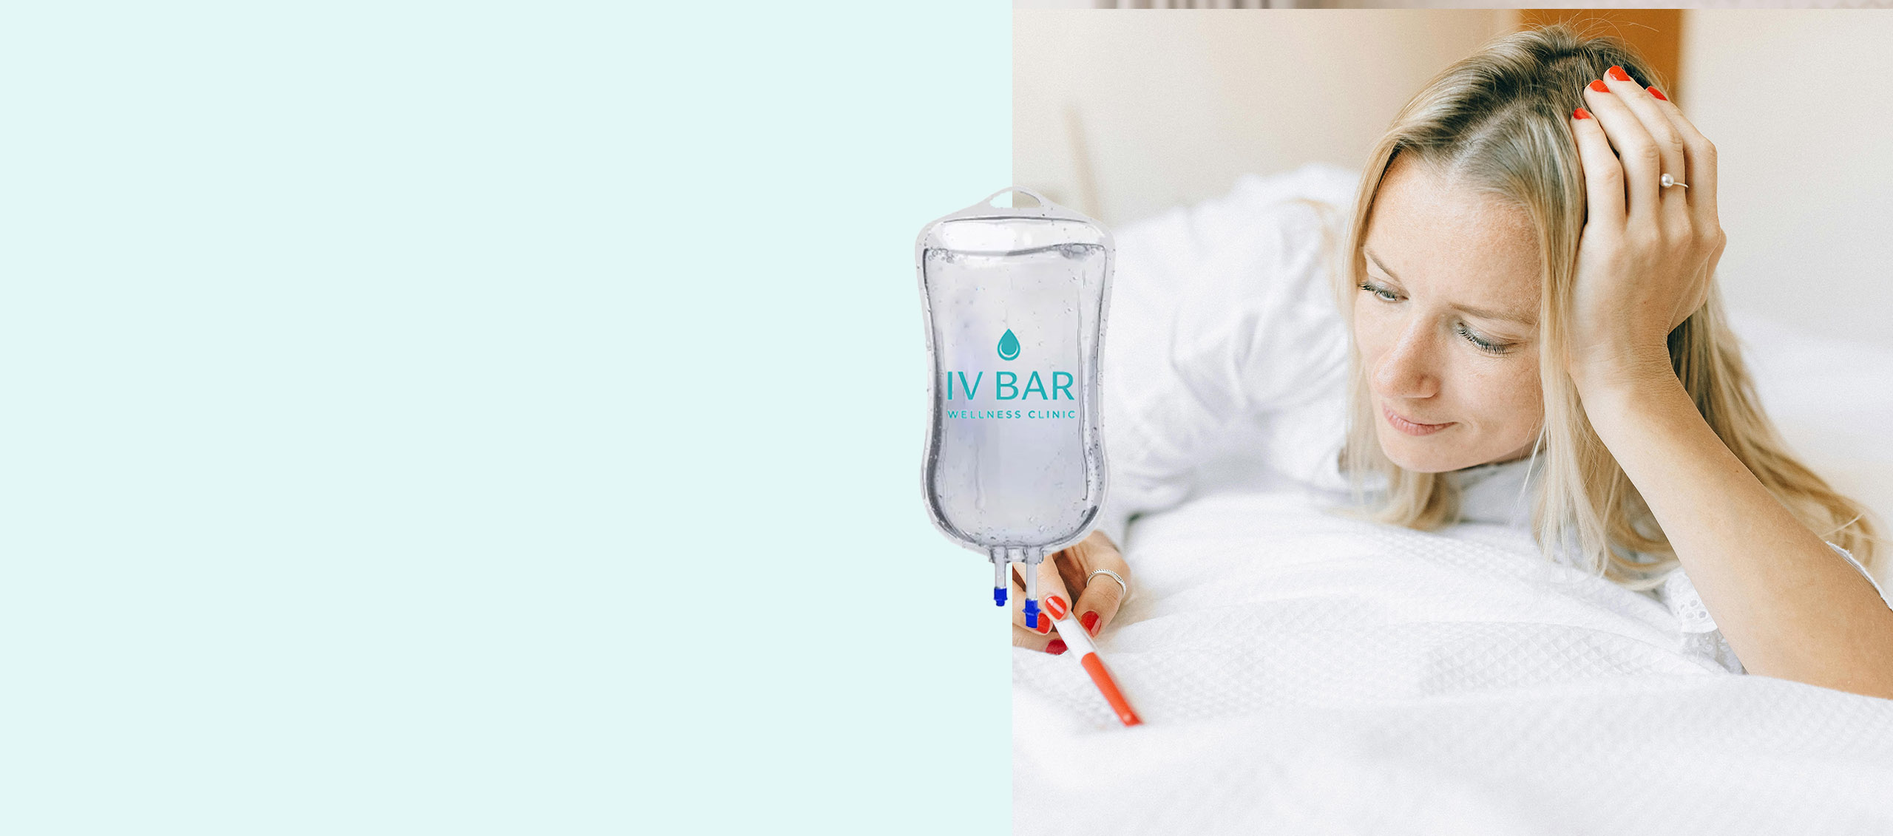
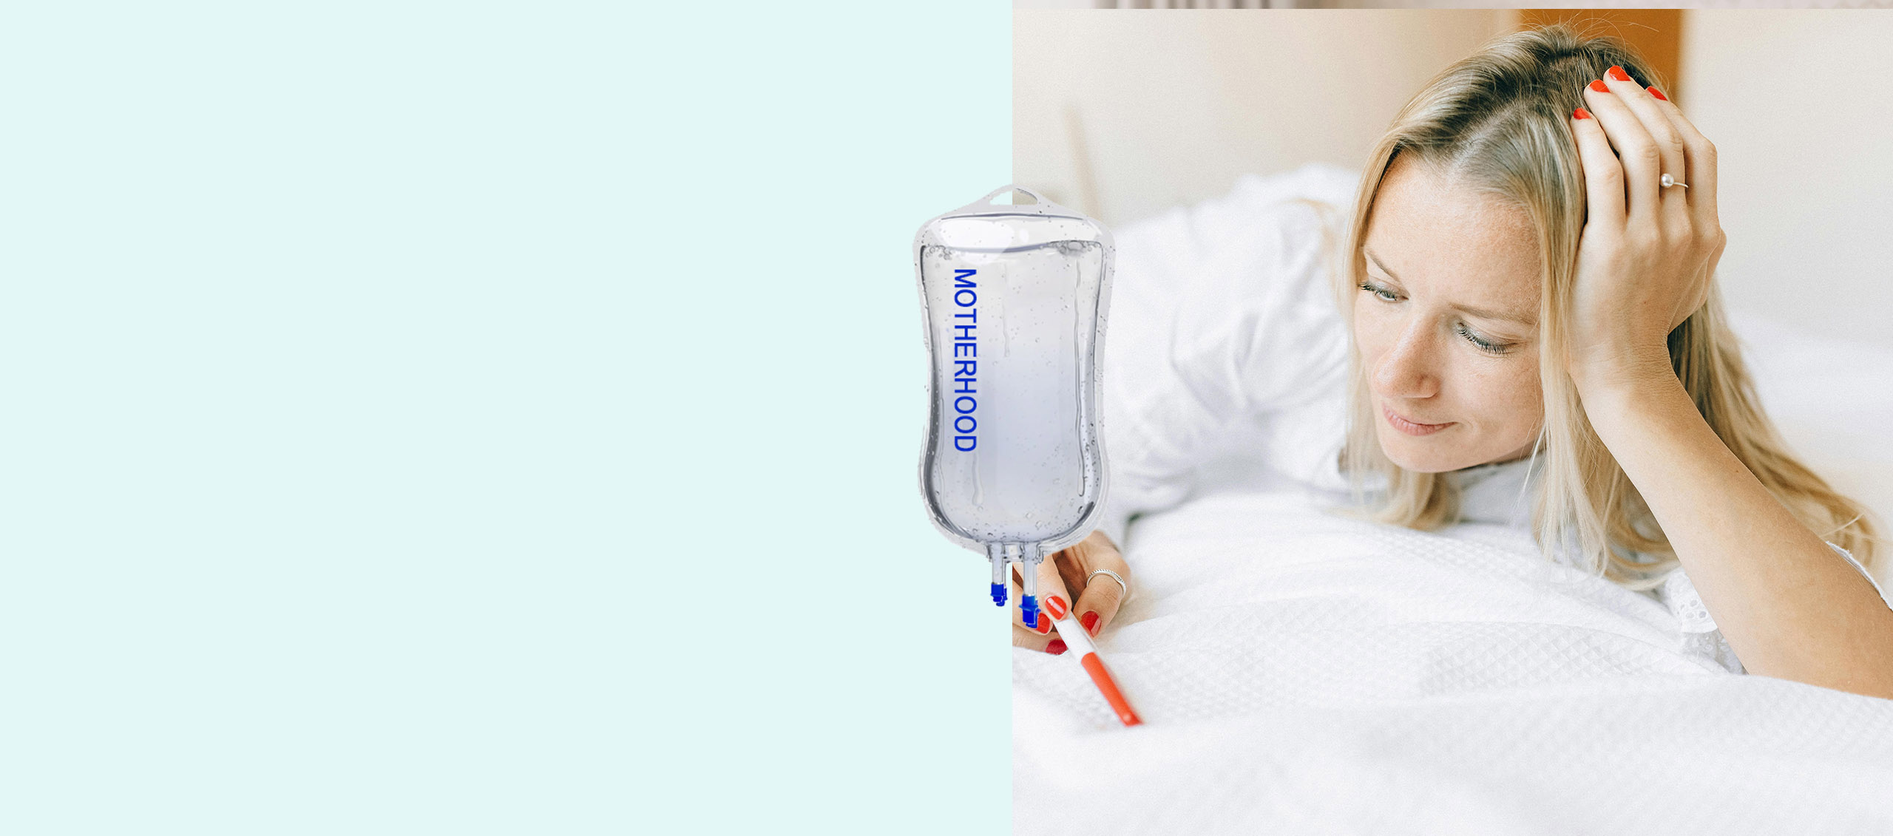
other pages

Changed region(s): [[0.4688, 0.2476, 0.5938, 0.7118], [0.5312, 0.7118, 0.5625, 0.7427]]

diff --git a/components/sections/TherapySection.js b/components/sections/TherapySection.js
@@ -97,10 +97,10 @@ export default function TherapySection() {
             onClick={() => setActiveTab("nad")}>
             NAD+
           </button>
-            <button  className={activeTab === "customerisediv" ? "active" : ""}
+            {/* <button  className={activeTab === "customerisediv" ? "active" : ""}
             onClick={() => setActiveTab("customerisediv")}>
            CUSTOMERISED IV'S
-          </button>
+          </button> */}
             <button  className={activeTab === "boostershorts" ? "active" : ""}
             onClick={() => setActiveTab("boostershorts")}>
            BOOSTER SHOTS
@@ -531,7 +531,7 @@ promoting overall wellness from within.</p>
                                 <SwiperSlide>
                                     <div className="service-card-items">
                                         <div className="service-image">
-                                            <img src="/assets/img/therapy/iv_drip_product.jpg" alt="therapy-img" />
+                                            <img src="/assets/img/therapy/nourishment.png" alt="therapy-img" />
                                         </div>
                                         <div className="service-content">
                                             <h4>Hair, Nails & Skin
@@ -562,7 +562,7 @@ Vitamin E, Zinc, Silica.
                                 <SwiperSlide>
                                     <div className="service-card-items">
                                         <div className="service-image">
-                                            <img src="/assets/img/therapy/iv_drip_product.jpg" alt="therapy-img" />
+                                            <img src="/assets/img/therapy/skin_glow_vitamin_c.png" alt="therapy-img" />
                                         </div>
                                         <div className="service-content">
                                             <h4>Skin Glow (Vitamin C +
@@ -605,7 +605,7 @@ Acid, Alpha Lipoic Acid.
                                 <SwiperSlide>
                                     <div className="service-card-items">
                                         <div className="service-image">
-                                            <img src="/assets/img/therapy/iv_drip_product.jpg" alt="therapy-img" />
+                                            <img src="/assets/img/therapy/fatherhood.png" alt="therapy-img" />
                                         </div>
                                         <div className="service-content">
                                             <h4>Fatherhood | Male Fertility
@@ -637,7 +637,7 @@ Extract, Ashwagandha Extract.
                                 <SwiperSlide>
                                     <div className="service-card-items">
                                         <div className="service-image">
-                                            <img src="/assets/img/therapy/nad.jpg" alt="therapy-img" />
+                                            <img src="/assets/img/therapy/motherhood.png" alt="therapy-img" />
                                         </div>
                                         <div className="service-content">
                                             <h4>Motherhood Female Fertility
@@ -681,7 +681,7 @@ NAC (N-Acetyl Cysteine), CoQ10, Black Cohosh, Vitex Agnus-Castus.
                                 <SwiperSlide>
                                     <div className="service-card-items">
                                         <div className="service-image">
-                                            <img src="/assets/img/therapy/iv_drip_product.jpg" alt="therapy-img" />
+                                            <img src="/assets/img/therapy/nad.jpg" alt="therapy-img" />
                                         </div>
                                         <div className="service-content">
                                             <h4>Fatherhood | Male Fertility
@@ -776,7 +776,7 @@ optimized cellular health.
                                 <SwiperSlide>
                                     <div className="service-card-items">
                                         <div className="service-image">
-                                            <img src="/assets/img/therapy/iv_drip_product.png" alt="therapy-img" />
+                                            <img src="/assets/img/therapy/slim_boost.png" alt="therapy-img" />
                                         </div>
                                         <div className="service-content">
                                             <h4>Slim Boost IV Therapy for Faster Metabolism & Detox</h4>
@@ -829,7 +829,7 @@ Slim Boost – Fat Burner IV Therapy is designed to support fat metabolism, boos
                                 <SwiperSlide>
                                     <div className="service-card-items">
                                         <div className="service-image">
-                                            <img src="/assets/img/therapy/iv_drip_product.png" alt="therapy-img" />
+                                            <img src="/assets/img/therapy/ozempic.png" alt="therapy-img" />
                                         </div>
                                         <div className="service-content">
                                             <h4>Ozempic Therapy</h4>

diff --git a/components/layout/Menu.js b/components/layout/Menu.js
@@ -27,21 +27,21 @@ export default function Menu() {
                             <div className="homemenu-items">
                                 <div className="homemenu">
                                     <div className="demo-button">
-                                        <Link href="/iv_drip_therapy_pro/immunity-recovery" className="theme-btn">
+                                        <Link href="/iv_drip_therapy_pro/immunity-recovery/hydrate_ultimate_uydration" className="theme-btn">
                                             IMMUNITY & RECOVERY                                          
                                             <i className="fas fa-arrow-right-long" />
                                         </Link>
-                                        <Link href="/iv_drip_therapy_pro/hydromax" className="theme-btn">
+                                        <Link href="/iv_drip_therapy_pro/detoxify_cleanse/heavy_metal_chelation_toxic_cleanse" className="theme-btn">
                                             DETOXIFY & CLEANSE  
                                             {/* <span>Hydration & Recovery</span> */}
                                             <i className="fas fa-arrow-right-long" />
                                         </Link>
-                                        <Link href="/iv_drip_therapy_pro/ultraviv" className="theme-btn">
+                                        <Link href="/iv_drip_therapy_pro/weight_performance/fat_burner_fat_burning_detoxification" className="theme-btn">
                                             WEIGHT & PERFORMANCE
                                             {/* <span>Recovery</span> */}
                                             <i className="fas fa-arrow-right-long" />
                                         </Link>
-                                        <Link href="/iv_drip_therapy_pro/megaboost" className="theme-btn">
+                                        <Link href="/iv_drip_therapy_pro/enery_brain/blood_boost_iron_therapy" className="theme-btn">
                                             ENERGY & BRAIN
                                             {/* <span>Wellness</span> */}
                                             <i className="fas fa-arrow-right-long" />
@@ -60,12 +60,12 @@ export default function Menu() {
                                 </div>
                                 <div className="homemenu">
                                     <div className="demo-button">
-                                        <Link href="/iv_drip_therapy_pro/royal-flush" className="theme-btn">
+                                        <Link href="/iv_drip_therapy_pro/hair_nails_skin_nourishment/hair_nails_skin" className="theme-btn">
                                            HAIR, NAILS & SKIN
                                             {/* <span>Recovery</span> */}
                                             <i className="fas fa-arrow-right-long" />
                                         </Link>
-                                        <Link href="/iv_drip_therapy_pro/formerly-heliix" className="theme-btn">
+                                        <Link href="/iv_drip_therapy_pro/fatherhood_fertility_therapy/fatherhood_male_fertility" className="theme-btn">
                                            FERTILITY
                                             {/* <span>Detox</span> */}
                                             <i className="fas fa-arrow-right-long" />
@@ -75,13 +75,8 @@ export default function Menu() {
                                             {/* <span>Wellness</span> */}
                                             <i className="fas fa-arrow-right-long" />
                                         </Link>
-                                        <Link href="/iv_drip_therapy_pro/personalised-iv" className="theme-btn">
-                                            CUSTOMERISED IV'S
-
-                                            {/* <span>Tailored to your Goals</span> */}
-                                            <i className="fas fa-arrow-right-long" />
-                                        </Link>
-                                        <Link href="/iv_drip_therapy_pro/ultraviv-pro" className="theme-btn">
+                                       
+                                        <Link href="/iv_drip_therapy_pro/munjaro_ozempic/munjaro" className="theme-btn">
                                            BOOSTER SHOTS
                                             {/* <span>Recovery</span> */}
                                             <i className="fas fa-arrow-right-long" />

diff --git a/app/iv_drip_therapy_pro/munjaro_ozempic/ozempic/page.js b/app/iv_drip_therapy_pro/munjaro_ozempic/ozempic/page.js
@@ -122,7 +122,7 @@ export default function Ozempic() {
                                                    <div className="row g-4 justify-content-between topBottm30">
                                                            <div className="col-lg-6">
                                                                <div className="details-image">
-                                                                   <img className="radiusImg" src="/assets/img/therapy/iv_drip_product.png" alt="therapy-img" />
+                                                                   <img className="radiusImg" src="/assets/img/therapy/ozempic.png" alt="therapy-img" />
                                                                                                    </div>
                                                            </div>
                                                        
@@ -261,7 +261,7 @@ At IV Bar Wellness Clinic, our Ozempic Therapy is carefully designed to support 
                                                                <h3  className="section-title text-center mrgB40">Best uses for <b> Hydrate- Ultimate Hydration</b></h3>
                                                                <div className="iconsblockInfo">
                                                                    <ul className=" mb-4">
-                                                                       <li><i className=""><img className="radiusImg" src="/assets/img/icons/fat_burn.png" alt="Fat Burn" /></i> Fat Loss</li>
+                                                                       <li><i className=""><img className="radiusImg" src="/assets/img/icons/fat_loss.png" alt="Fat Burn" /></i> Fat Loss</li>
                                                                        <li><i className=""><img className="radiusImg" src="/assets/img/icons/metabolism.png" alt="Metabolism" /></i> Metabolism</li>
                                                                        <li><i className=""><img className="radiusImg" src="/assets/img/icons/energyboost.png" alt="Energy Boost" /></i> Energy Boost</li>                                                                       
                                                                        <li><i className=""><img className="radiusImg" src="/assets/img/icons/detox.png" alt="Detox" /></i> Detox</li>

diff --git a/app/iv_drip_therapy_pro/hair_nails_skin_nourishment/skin_glow_vitamin_c/page.js b/app/iv_drip_therapy_pro/hair_nails_skin_nourishment/skin_glow_vitamin_c/page.js
@@ -264,7 +264,7 @@ Skin Glow Vitamin C + Glutathione IV Therapy is designed to enhance your skin’
                                                                        <li><i className=""><img className="radiusImg" src="/assets/img/icons/brightening.png" alt="Brightening" /></i> Brightening</li>
                                                                        <li><i className=""><img className="radiusImg" src="/assets/img/icons/even_tone.png" alt="Even Tone" /></i> Even Tone</li>
                                                                        <li><i className=""><img className="radiusImg" src="/assets/img/icons/detox.png" alt="Detox" /></i> Detox</li>
-                                                                       <li><i className=""><img className="radiusImg" src="/assets/img/icons/anti_aging.png" alt="Anti-aging" /></i> Anti-aging</li>
+                                                                       <li><i className=""><img className="radiusImg" src="/assets/img/icons/anti-aging.png" alt="Anti-aging" /></i> Anti-aging</li>
                                                                        <li><i className=""><img className="radiusImg" src="/assets/img/icons/collagen_boost.png" alt="Collagen Boost" /></i> Collagen Boost</li>
                                                                         <li><i className=""><img className="radiusImg" src="/assets/img/icons/radiance.png" alt="Radiance" /></i> Radiance</li>
                                                                        

diff --git a/app/iv_drip_therapy_pro/nad/page.js b/app/iv_drip_therapy_pro/nad/page.js
@@ -265,7 +265,7 @@ At IV Bar Wellness Clinic, our NAD+ Therapy is carefully designed to support you
                                                                        <li><i className=""><img className="radiusImg" src="/assets/img/icons/mental_clarity.png" alt="Mental Clarity" /></i> Mental Clarity</li>
                                                                        <li><i className=""><img className="radiusImg" src="/assets/img/icons/focus.png" alt="Focus" /></i> Focus</li>
                                                                        <li><i className=""><img className="radiusImg" src="/assets/img/icons/recovery.png" alt="Recovery" /></i> Recovery</li>
-                                                                       <li><i className=""><img className="radiusImg" src="/assets/img/icons/anti_aging.png" alt="Anti-aging" /></i> Anti-aging</li>
+                                                                       <li><i className=""><img className="radiusImg" src="/assets/img/icons/anti-aging.png" alt="Anti-aging" /></i> Anti-aging</li>
                                                                        <li><i className=""><img className="radiusImg" src="/assets/img/icons/brain_health.png" alt="Brain Health" /></i> Brain Health</li>
                                                                         <li><i className=""><img className="radiusImg" src="/assets/img/icons/vitality.png" alt="Vitality" /></i> Vitality</li>
                                                                        

diff --git a/app/iv_drip_therapy_pro/super_b_complex/page.js b/app/iv_drip_therapy_pro/super_b_complex/page.js
@@ -265,7 +265,7 @@ At IV Bar Wellness Clinic, our NAD+ Therapy is carefully designed to support you
                                                                        <li><i className=""><img className="radiusImg" src="/assets/img/icons/mental_clarity.png" alt="Mental Clarity" /></i> Mental Clarity</li>
                                                                        <li><i className=""><img className="radiusImg" src="/assets/img/icons/focus.png" alt="Focus" /></i> Focus</li>
                                                                        <li><i className=""><img className="radiusImg" src="/assets/img/icons/recovery.png" alt="Recovery" /></i> Recovery</li>
-                                                                       <li><i className=""><img className="radiusImg" src="/assets/img/icons/anti_aging.png" alt="Anti-aging" /></i> Anti-aging</li>
+                                                                       <li><i className=""><img className="radiusImg" src="/assets/img/icons/anti-aging.png" alt="Anti-aging" /></i> Anti-aging</li>
                                                                        <li><i className=""><img className="radiusImg" src="/assets/img/icons/brain_health.png" alt="Brain Health" /></i> Brain Health</li>
                                                                         <li><i className=""><img className="radiusImg" src="/assets/img/icons/vitality.png" alt="Vitality" /></i> Vitality</li>
                                                                        

diff --git a/app/iv_drip_therapy_pro/botox/page.js b/app/iv_drip_therapy_pro/botox/page.js
@@ -261,7 +261,7 @@ At IV Bar Wellness Clinic, our Botox Therapy is carefully designed to deliver na
                                                                <div className="iconsblockInfo">
                                                                    <ul className=" mb-4">
                                                                        <li><i className=""><img className="radiusImg" src="/assets/img/icons/wrinkle_reduction.png" alt="Wrinkle Reduction" /></i> Wrinkle Reduction</li>
-                                                                       <li><i className=""><img className="radiusImg" src="/assets/img/icons/anti_aging.png" alt="Anti-aging" /></i> Anti-aging</li>
+                                                                       <li><i className=""><img className="radiusImg" src="/assets/img/icons/anti-aging.png" alt="Anti-aging" /></i> Anti-aging</li>
                                                                        <li><i className=""><img className="radiusImg" src="/assets/img/icons/smooth_skin.png" alt="Smooth Skin" /></i> Smooth Skin</li>
                                                                        <li><i className=""><img className="radiusImg" src="/assets/img/icons/fine_lines.png" alt="Fine Lines" /></i> Fine Lines</li>
                                                                        <li><i className=""><img className="radiusImg" src="/assets/img/icons/facial_balance.png" alt="Facial Balance" /></i> Facial Balance</li>

diff --git a/app/iv_drip_therapy_pro/slim_boost_fat_burner/page.js b/app/iv_drip_therapy_pro/slim_boost_fat_burner/page.js
@@ -33,7 +33,7 @@ export default function ImmunityRecovery() {
                                    </Link>
                                </div>
                            </div> */}
-                           <div className="heroBanner nadbanner">
+                           <div className="heroBanner slim_boost_banner">
                                <div className="heroBannerInfo">
            <div className="heroBannerText">
            <div className="bannerContent">
@@ -122,7 +122,7 @@ export default function ImmunityRecovery() {
                                                    <div className="row g-4 justify-content-between topBottm30">
                                                            <div className="col-lg-6">
                                                                <div className="details-image">
-                                                                   <img className="radiusImg" src="/assets/img/therapy/iv_drip_product.png" alt="therapy-img" />
+                                                                   <img className="radiusImg" src="/assets/img/therapy/slim_boost.png" alt="therapy-img" />
                                                                                                    </div>
                                                            </div>
                                                        

diff --git a/app/iv_drip_therapy_pro/fatherhood_fertility_therapy/fatherhood_male_fertility/page.js b/app/iv_drip_therapy_pro/fatherhood_fertility_therapy/fatherhood_male_fertility/page.js
@@ -122,7 +122,7 @@ export default function ImmunityRecovery() {
                                                    <div className="row g-4 justify-content-between topBottm30">
                                                            <div className="col-lg-6">
                                                                <div className="details-image">
-                                                                   <img className="radiusImg" src="/assets/img/therapy/iv_drip_product.jpg" alt="therapy-img" />
+                                                                   <img className="radiusImg" src="/assets/img/therapy/motherhood.png" alt="therapy-img" />
                                                                                                    </div>
                                                            </div>
                                                        

diff --git a/app/iv_drip_therapy_pro/fatherhood_fertility_therapy/fatherhood_female_fertility/page.js b/app/iv_drip_therapy_pro/fatherhood_fertility_therapy/fatherhood_female_fertility/page.js
@@ -120,7 +120,7 @@ export default function UltravIVPro() {
                                                    <div className="row g-4 justify-content-between topBottm30">
                                                            <div className="col-lg-6">
                                                                <div className="details-image">
-                                                                   <img className="radiusImg" src="/assets/img/therapy/iv_drip_product.jpg" alt="therapy-img" />
+                                                                   <img className="radiusImg" src="/assets/img/therapy/fatherhood.jpg" alt="therapy-img" />
                                                                                                    </div>
                                                            </div>
                                                        

diff --git a/app/iv_drip_therapy_pro/munjaro_ozempic/munjaro/page.js b/app/iv_drip_therapy_pro/munjaro_ozempic/munjaro/page.js
@@ -122,7 +122,7 @@ export default function MunjaroOzempic() {
                                                    <div className="row g-4 justify-content-between topBottm30">
                                                            <div className="col-lg-6">
                                                                <div className="details-image">
-                                                                   <img className="radiusImg" src="/assets/img/therapy/iv_drip_product.png" alt="therapy-img" />
+                                                                   <img className="radiusImg" src="/assets/img/therapy/munjaro.png" alt="therapy-img" />
                                                                                                    </div>
                                                            </div>
                                                        

diff --git a/public/assets/css/main.css b/public/assets/css/main.css
@@ -10079,6 +10079,15 @@ h6 {
 .heroBanner.super_b_complex {
   background: url(../../assets/img/super_b_complex.jpg) no-repeat;
 }
+.heroBanner.ozempic_banner {
+  background: url(../../assets/img/ozempic_banner.jpg) no-repeat;
+}
+.heroBanner.munjaro_ozempic {
+  background: url(../../assets/img/munjaro_ozempic.jpg) no-repeat;
+}
+.heroBanner.slim_boost_banner {
+  background: url(../../assets/img/slim_boost_banner.jpg) no-repeat;
+}
 .heroBannerRight .recommendedAddons {
   list-style: none;
   display: flex;
